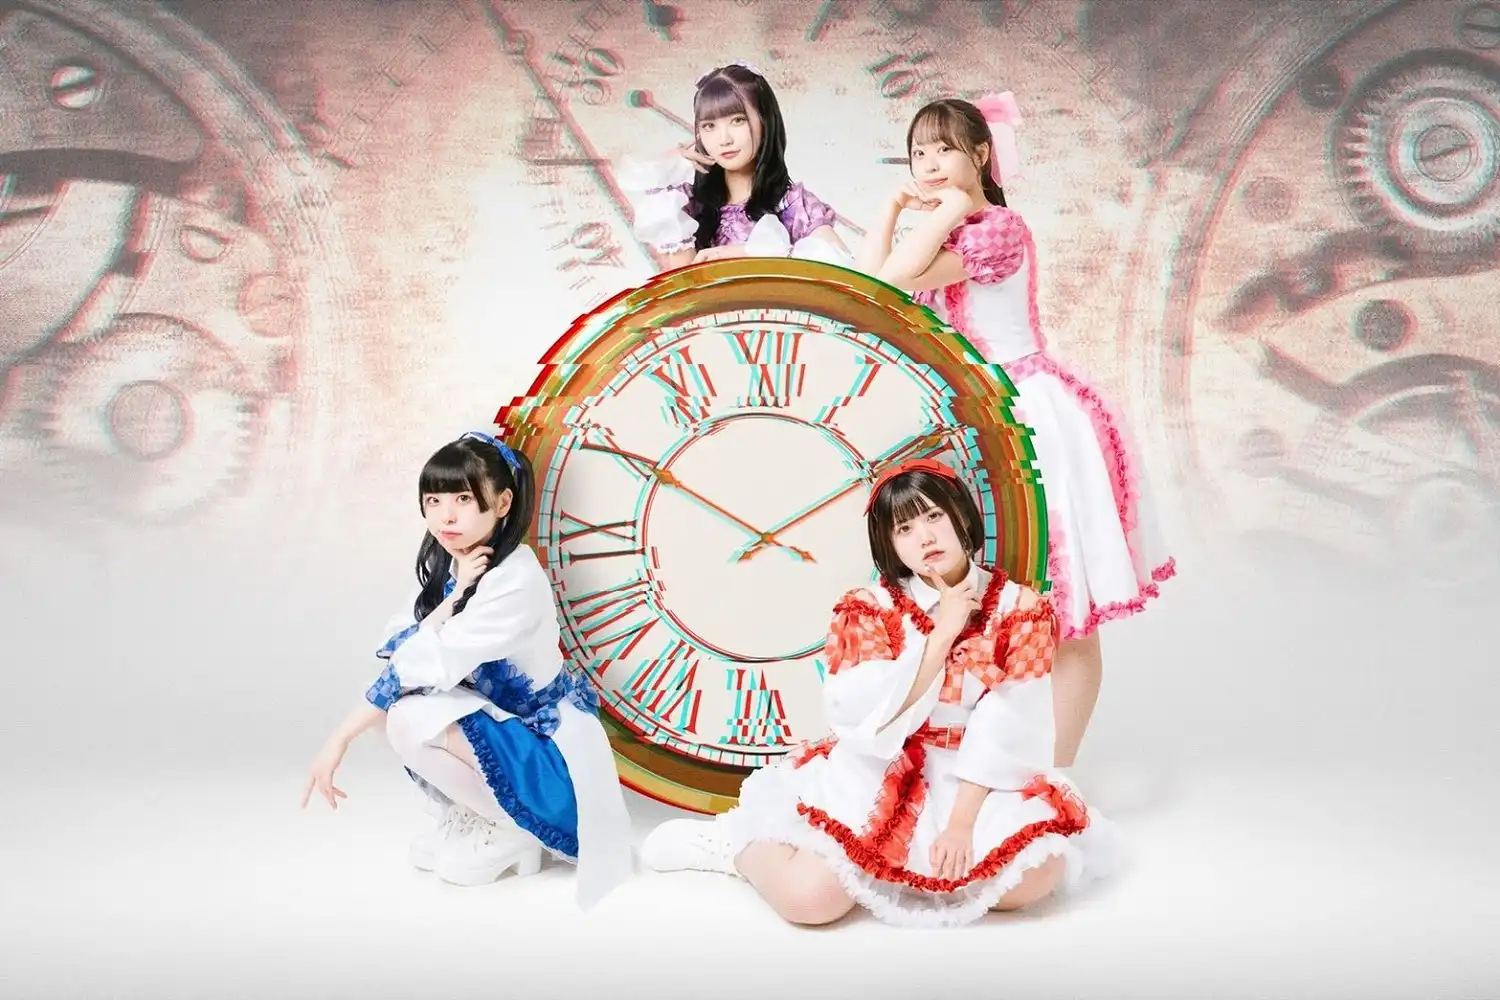
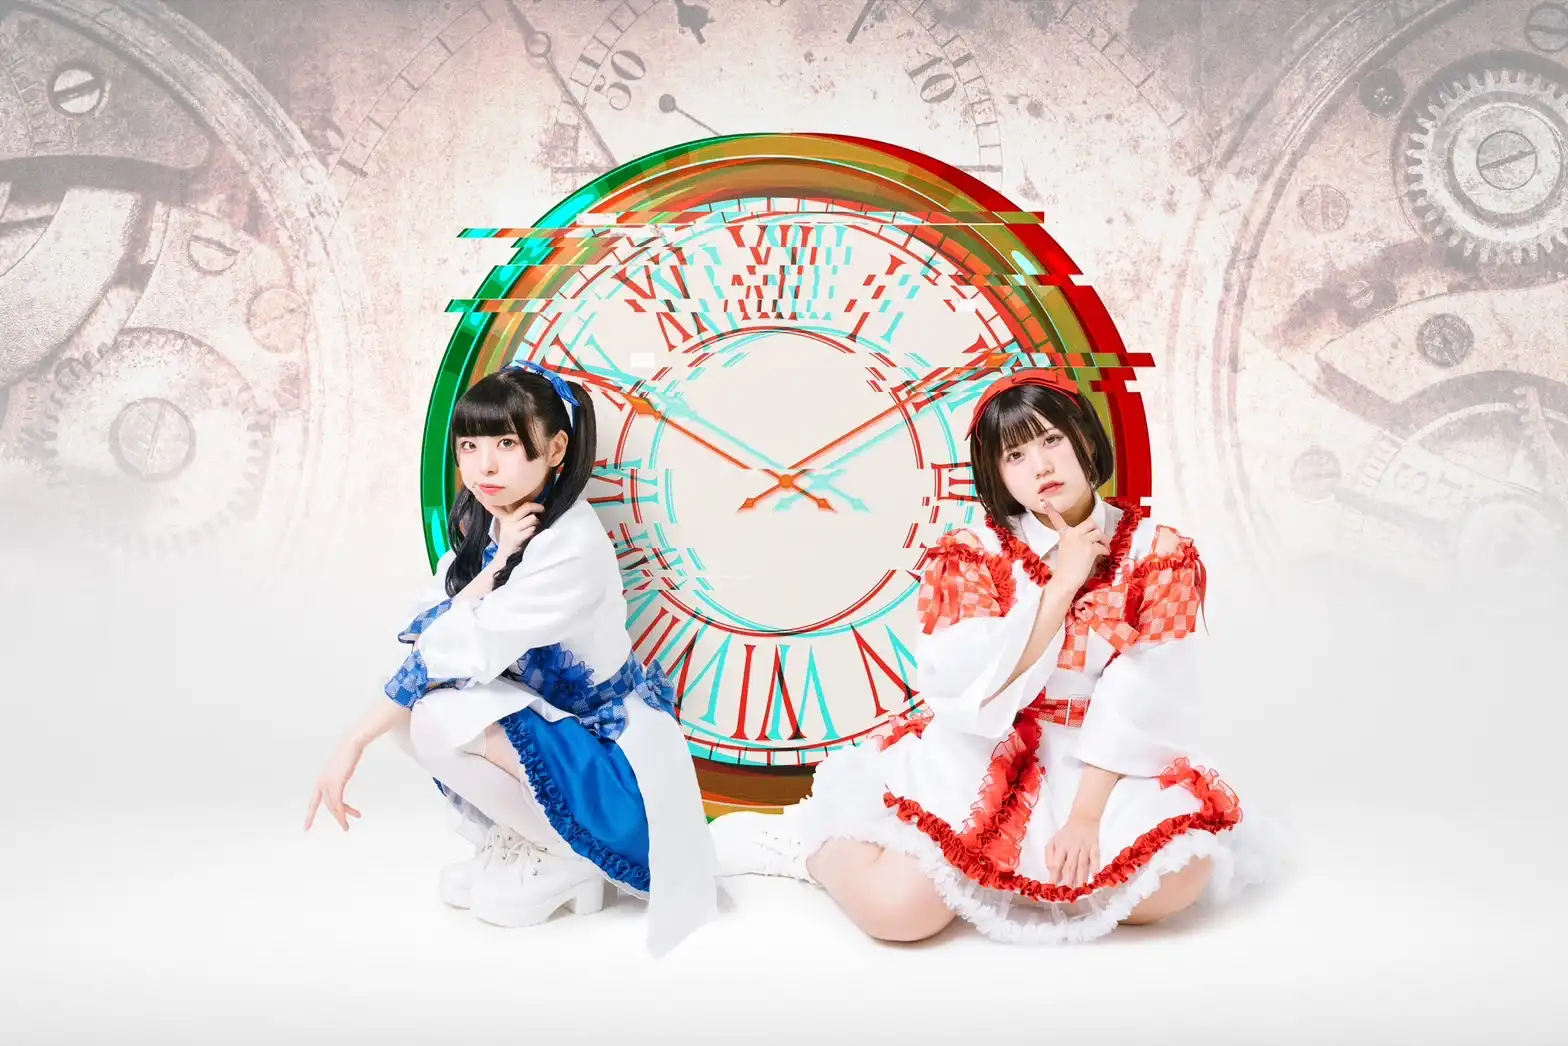
メンバー削除

diff --git a/pages/index.vue b/pages/index.vue
@@ -14,10 +14,10 @@
       </div>
 
       <div class="columns is-variable is-1-mobile is-mobile">
+        <div class="column"></div>
         <card-name name="あんず" image="anzu_icon" to="anzu"></card-name>
-        <card-name name="るな" image="runa_icon" to="runa"></card-name>
-        <card-name name="ゆり" image="yuri_icon" to="yuri"></card-name>
         <card-name name="おわり" image="owari_icon" to="owari"></card-name>
+        <div class="column"></div>
       </div>
 
       <div class="columns is-variable is-1-mobile is-mobile">
@@ -28,7 +28,7 @@
         <div class="column"></div>
       </div>
 
-      <figure class="image m-3">
+      <!-- <figure class="image m-3">
         <img src="~assets/audition.webp" alt="オーディション" />
       </figure>
 
@@ -37,7 +37,7 @@
         <figure class="image is-96x96 is-inline-block">
           <img src="~assets/line.webp" alt="LINE" />
         </figure>
-      </div>
+      </div> -->
 
       <div class="google-cal has-text-centered">
         <iframe
